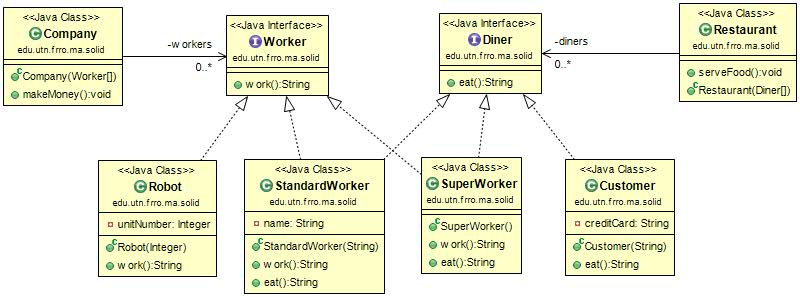
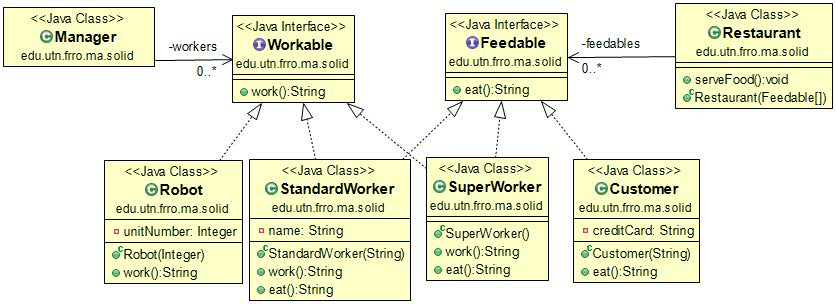
update

diff --git a/src/main/java/edu/utn/frro/ma/solid/Main.java b/src/main/java/edu/utn/frro/ma/solid/Main.java
@@ -4,7 +4,6 @@ public class Main {
 
 	public static void main(String[] args) {
 		
-		
 		SuperWorker s1 = new SuperWorker();
 		SuperWorker s2 = new SuperWorker();
 		SuperWorker s3 = new SuperWorker();
@@ -21,7 +20,7 @@ public class Main {
 		Customer c2 = new Customer("5678");
 		Customer c3 = new Customer("9012");
 		
-		Company company = new Company(r1, s1, sw1, sw5, r4, sw2, r2, s2, r3, sw3, s3, sw4);
+		Manager company = new Manager(r1, s1, sw1, sw5, r4, sw2, r2, s2, r3, sw3, s3, sw4);
 		Restaurant restaurant = new Restaurant(c1, s1, sw1, sw2, c2, s2, c3, sw3, s3, sw4, sw5);
 		
 		company.makeMoney();

diff --git a/src/main/java/edu/utn/frro/ma/solid/Manager.java b/src/main/java/edu/utn/frro/ma/solid/Manager.java
@@ -3,17 +3,17 @@ package edu.utn.frro.ma.solid;
 import java.util.ArrayList;
 import java.util.Collection;
 
-public class Company {
+public class Manager {
 
-	private Worker[] workers;
+	private Workable[] workers;
 	
-	public Company(Worker... workers) {
+	public Manager(Workable... workers) {
 		this.workers=workers;
 	}
 	
 	public void makeMoney() {
 		System.out.println("### Making this company great! ###");
-		for (Worker worker : workers) {
+		for (Workable worker : workers) {
 			System.out.println(worker.work());
 		}
 		System.out.println("### Take a break of work. ###");

diff --git a/src/main/java/edu/utn/frro/ma/solid/Restaurant.java b/src/main/java/edu/utn/frro/ma/solid/Restaurant.java
@@ -5,17 +5,17 @@ import java.util.Collection;
 
 public class Restaurant {
 
-	private Diner[] diners;
+	private Feedable[] feedables;
 	
 	public void serveFood() {
 		System.out.println("### Serving delicious food! ###");
-		for (Diner diner : diners) {
-			System.out.println(diner.eat());
+		for (Feedable feedable : feedables) {
+			System.out.println(feedable.eat());
 		}
 	}
 	
-	public Restaurant(Diner... diners) {
-		this.diners=diners;
+	public Restaurant(Feedable... feedables) {
+		this.feedables=feedables;
 	}
 	
 }

diff --git a/src/main/java/edu/utn/frro/ma/solid/SuperWorker.java b/src/main/java/edu/utn/frro/ma/solid/SuperWorker.java
@@ -1,6 +1,6 @@
 package edu.utn.frro.ma.solid;
 
-public class SuperWorker implements Worker, Diner {
+public class SuperWorker implements Workable, Feedable {
 
 	public String work() {
 		return "I am working real fast and I am super efficient. I am like " + this.toString();

diff --git a/src/main/java/edu/utn/frro/ma/solid/Robot.java b/src/main/java/edu/utn/frro/ma/solid/Robot.java
@@ -1,6 +1,6 @@
 package edu.utn.frro.ma.solid;
 
-public class Robot implements Worker{
+public class Robot implements Workable{
 
 	private Integer unitNumber;
 	public Robot(Integer unitNumber) {

diff --git a/src/main/java/edu/utn/frro/ma/solid/StandardWorker.java b/src/main/java/edu/utn/frro/ma/solid/StandardWorker.java
@@ -1,6 +1,6 @@
 package edu.utn.frro.ma.solid;
 
-public class StandardWorker implements Worker, Diner {
+public class StandardWorker implements Workable, Feedable {
 
 	private String name;
 

diff --git a/src/main/java/edu/utn/frro/ma/solid/Customer.java b/src/main/java/edu/utn/frro/ma/solid/Customer.java
@@ -1,6 +1,6 @@
 package edu.utn.frro.ma.solid;
 
-public class Customer implements Diner {
+public class Customer implements Feedable {
 
 	private String creditCard;
 

diff --git a/src/main/java/edu/utn/frro/ma/solid/Workable.java b/src/main/java/edu/utn/frro/ma/solid/Workable.java
@@ -1,6 +1,6 @@
 package edu.utn.frro.ma.solid;
 
-public interface Worker {
+public interface Workable {
 	public String work();
 
 }

diff --git a/src/main/java/edu/utn/frro/ma/solid/Feedable.java b/src/main/java/edu/utn/frro/ma/solid/Feedable.java
@@ -1,6 +1,6 @@
 package edu.utn.frro.ma.solid;
 
-public interface Diner {
+public interface Feedable {
 	public String eat();
 
 }
